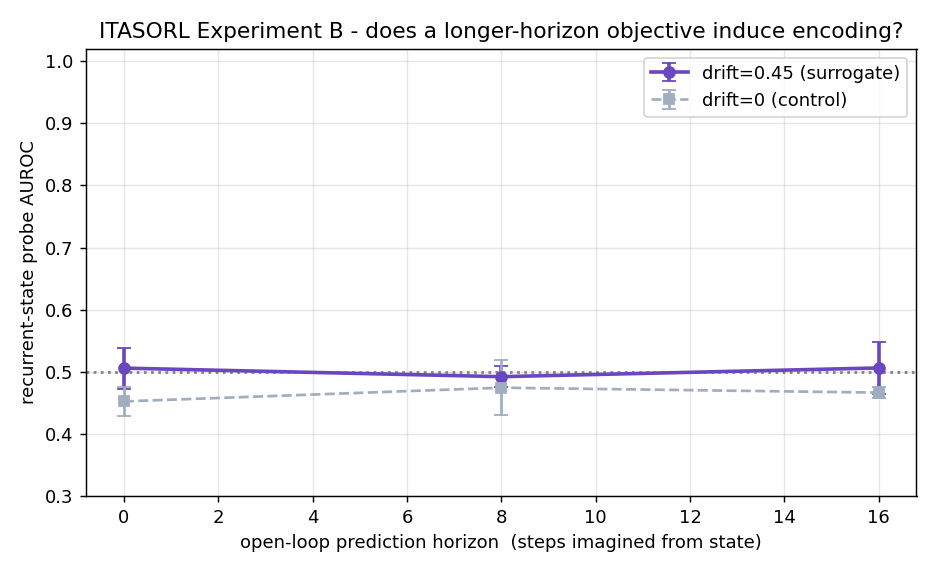
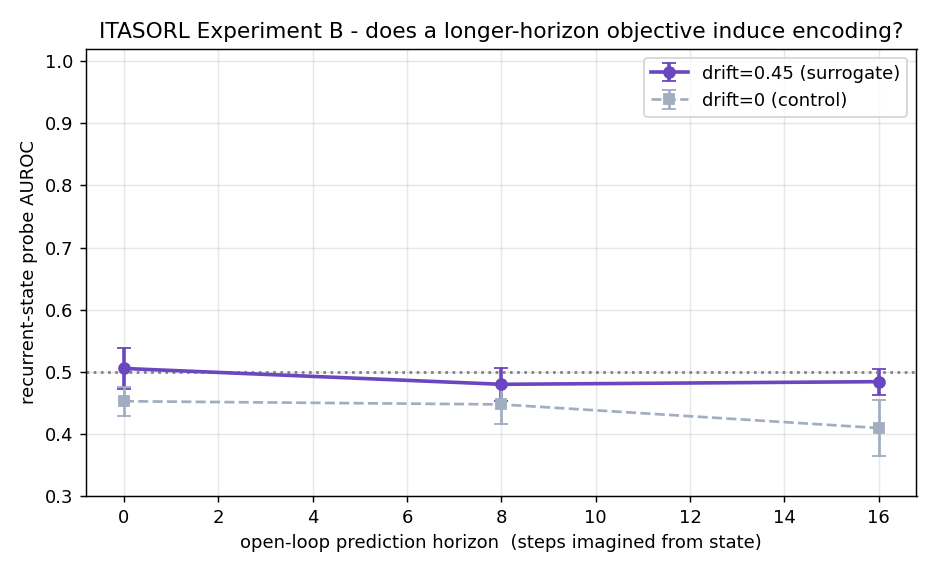
docs(expB): correct the kstep table/figure mismatch with a recorded rerun
The published FINDINGS 3.3 table came from the original pre-refactor run,
while the committed figure had been regenerated when the open-loop rollout API
was reimplemented - two different runs presented as one result. Both now come
from a single recorded, deterministic rerun on current code (drift
0.506/0.480/0.484, control 0.453/0.448/0.410 at horizons 0/8/16; log
fullruns/kstep_rerun_20260713.log), with a dated correction note in 3.3. The
conclusion (no liftoff at any horizon) is unchanged in every version. Updates
the claims inventory and the figure provenance row to match.

Changed region(s): [[0.1549, 0.5944, 0.9605, 0.8024], [0.6197, 0.7133, 0.8675, 0.743]]

diff --git a/docs/FINDINGS.md b/docs/FINDINGS.md
@@ -185,12 +185,24 @@ grows.
 
 | open-loop horizon | target (drift 0.45) | target (control) |
 |-------------------|---------------------|-------------------|
-| 0 (pure next-step) | 0.516 ± 0.025 | 0.465 ± 0.020 |
-| 8 | 0.523 ± 0.028 | 0.444 ± 0.024 |
-| 16 | 0.490 ± 0.008 | 0.468 ± 0.035 |
+| 0 (pure next-step) | 0.506 ± 0.033 | 0.453 ± 0.023 |
+| 8 | 0.480 ± 0.026 | 0.448 ± 0.032 |
+| 16 | 0.484 ± 0.021 | 0.410 ± 0.045 |
 
 No liftoff. The target stays at chance across all horizons; the control stays
-flat.
+flat (the horizon-16 control dips slightly below chance, within its error bar
+at n = 3 seeds).
+
+*Correction (2026-07-13).* An earlier version of this table quoted numbers from
+the original pre-refactor run (0.516/0.523/0.490 drift; 0.465/0.444/0.468
+control). When the open-loop rollout API was later reimplemented (the original
+script depended on an API that had been committed but not implemented) all
+figures were regenerated, but this table was not, so the published figure and
+table came from different runs. Both now come from a single recorded rerun of
+`scripts/run_expB_kstep.py` on the current code (log:
+`fullruns/kstep_rerun_20260713.log`); the rerun is deterministic (a repeat
+reproduces it exactly). The qualitative conclusion is unchanged in every
+version: no liftoff at any horizon.
 
 ![Experiment B, does a longer-horizon objective induce encoding?](figures/expB_kstep.png)
 

diff --git a/docs/PAPER_OUTLINE.md b/docs/PAPER_OUTLINE.md
@@ -56,7 +56,7 @@ resolve.*
 | 3 | L2 detectable (oracle) | AUROC 0.993 | FINDINGS 2.2 | run_expA_l2.py output | expA_L2_ceiling.png |
 | 4 | L2 not encoded (recurrent state) | 0.510 ± 0.039 @ drift 0.45 | FINDINGS 3.1 | run_expB_full.py output | expB_incidental.png |
 | 5 | L2 surprise channel weak | 0.596 ± 0.007 @ drift 0.45 | FINDINGS 3.2 | run_expB_surprise.py output | expB_channels.png |
-| 6 | No liftoff with horizon | 0.49-0.52 across 0/8/16 | FINDINGS 3.3 | run_expB_kstep.py output (rerun pending, see task note) | expB_kstep.png |
+| 6 | No liftoff with horizon | 0.48-0.51 across 0/8/16 | FINDINGS 3.3 | fullruns/kstep_rerun_20260713.log (recorded rerun; see 3.3 correction) | expB_kstep.png |
 | 7 | L2 null robust (nonlinear probe) | 0.482 ± 0.031 | FINDINGS 3.4 | run_expB_nonlinear.py output | - |
 | 8 | Survival coupling does not rescue L2 | 0.523 ± 0.045 (replication) | FINDINGS 9 | artifacts/expB2/expB2_results.json | expB2_survival.png |
 | 9 | B-v3 regime negative at scale | 0.610, 90% CI [0.585, 0.634], n=10 | FINDINGS 7.1 | see PREREGISTRATION_Bv3.md trail | - |
@@ -75,9 +75,10 @@ resolve.*
 
 ## Known gaps before submission
 
-- Claims 4-7 cite script console output rather than committed JSON artifacts; the
-  kstep figure/table pair is being regenerated from a recorded run (FINDINGS 3.3
-  correction note pending).
+- Claims 4-7 cite script console output rather than committed JSON artifacts
+  (claim 6 now has a recorded rerun log and the FINDINGS 3.3 correction note;
+  claims 4, 5, 7 still trace to unrecorded original runs and deserve the same
+  recorded-rerun treatment before the paper freezes).
 - Claims 9-10 should get their run JSONs promoted into artifacts/ alongside the
   L3 ones.
 - Rows 20-21 must resolve (either direction) before the paper freezes; the paper

diff --git a/docs/figures/README.md b/docs/figures/README.md
@@ -11,7 +11,7 @@ is updated in the same commit.
 | `expA_L2_ceiling.png` | `scripts/run_expA_l2.py` | L2 detectability ceiling vs drift strength | FINDINGS.md sec. 2 |
 | `expB_incidental.png` | `scripts/run_expB_full.py` | Recurrent-state probe across the drift sweep | FINDINGS.md sec. 3 |
 | `expB_channels.png` | `scripts/run_expB_surprise.py` | Recurrent-state vs prediction-error channels | FINDINGS.md sec. 3 |
-| `expB_kstep.png` | `scripts/run_expB_kstep.py` | Effect of open-loop horizon on encoding | FINDINGS.md sec. 3.3 |
+| `expB_kstep.png` | `scripts/run_expB_kstep.py` | Effect of open-loop horizon on encoding | FINDINGS.md sec. 3.3 (regenerated 2026-07-13 with the table; log `fullruns/kstep_rerun_20260713.log`) |
 
 Regenerate all of the above in one recorded pass:
 